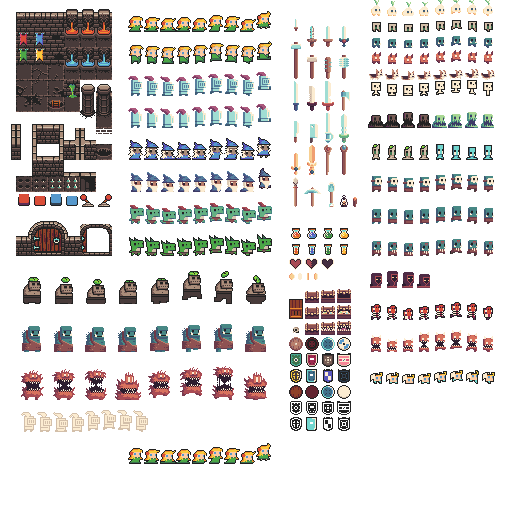
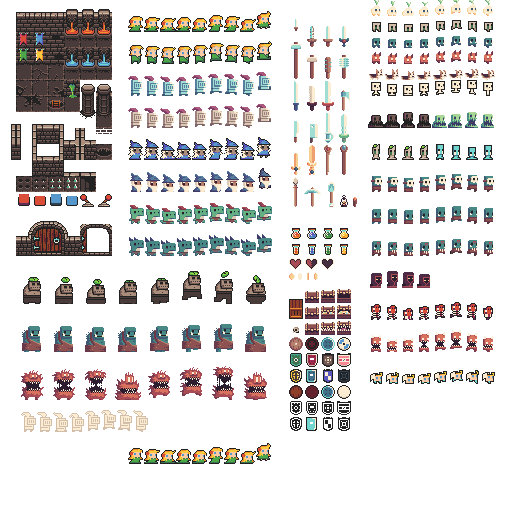
other players will be lizards

Changed region(s): [[0.25, 0.4375, 0.5312, 0.5], [0.25, 0.1875, 0.5312, 0.25]]

diff --git a/src/characters/DudeFactory.ts b/src/characters/DudeFactory.ts
@@ -140,7 +140,7 @@ export class DudeFactory {
         // type-specific defaults
         switch (type) {
             case DudeType.PLAYER: {
-                animationName = "knight_f"
+                animationName = "lizard_m"
                 weapon = WeaponType.SWORD
                 shield = ShieldType.BASIC
                 maxHealth = 4
@@ -148,6 +148,7 @@ export class DudeFactory {
                 if (session.isHost()) {
                     const isHostPlayerDude = !uuid.startsWith(ONLINE_PLAYER_DUDE_ID_PREFIX)
                     if (isHostPlayerDude) {
+                        animationName = "knight_f"
                         additionalComponents = [new HostPlayer(), new CutscenePlayerController()]
                         window["player"] = additionalComponents[0]
                     } else {
